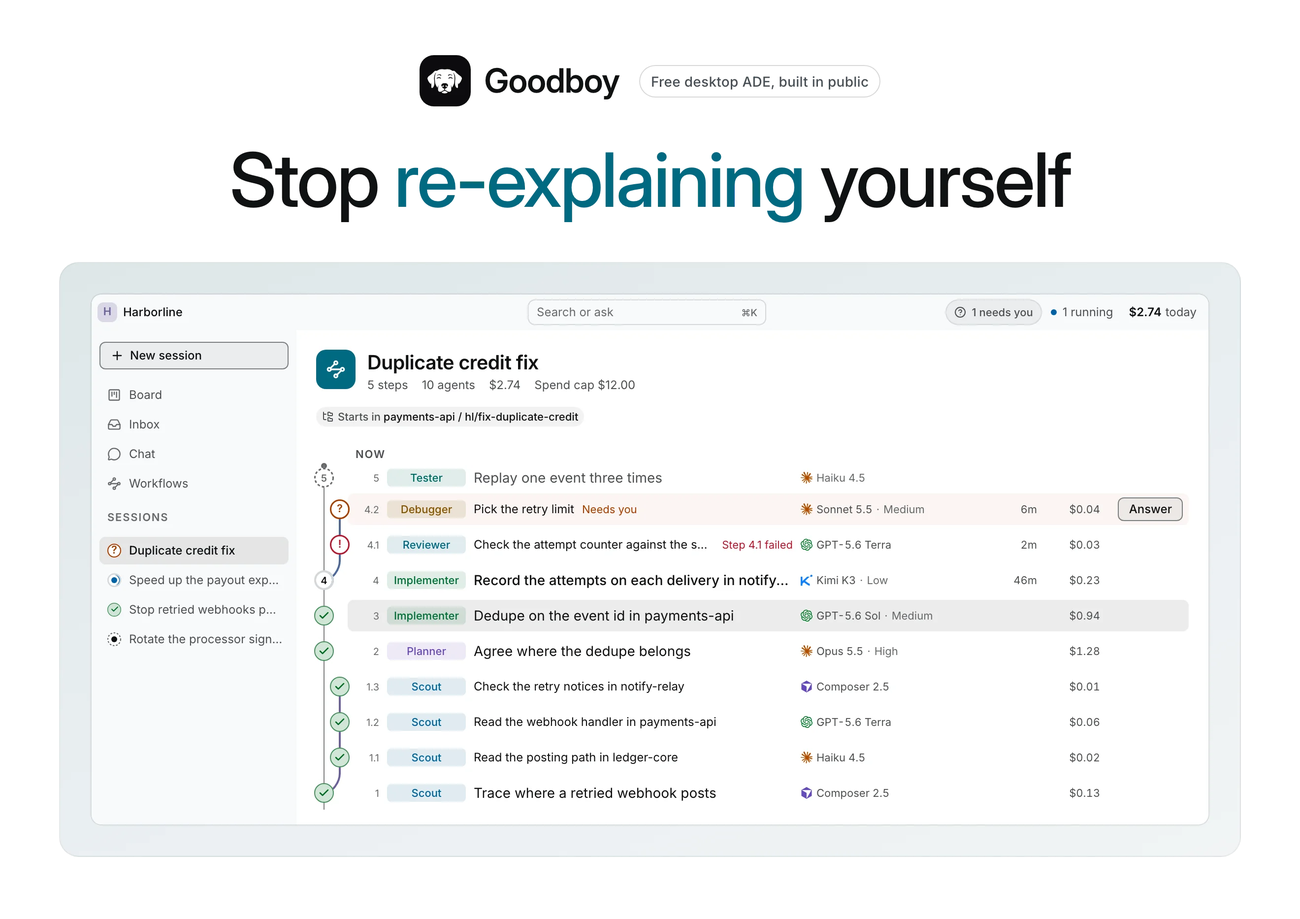
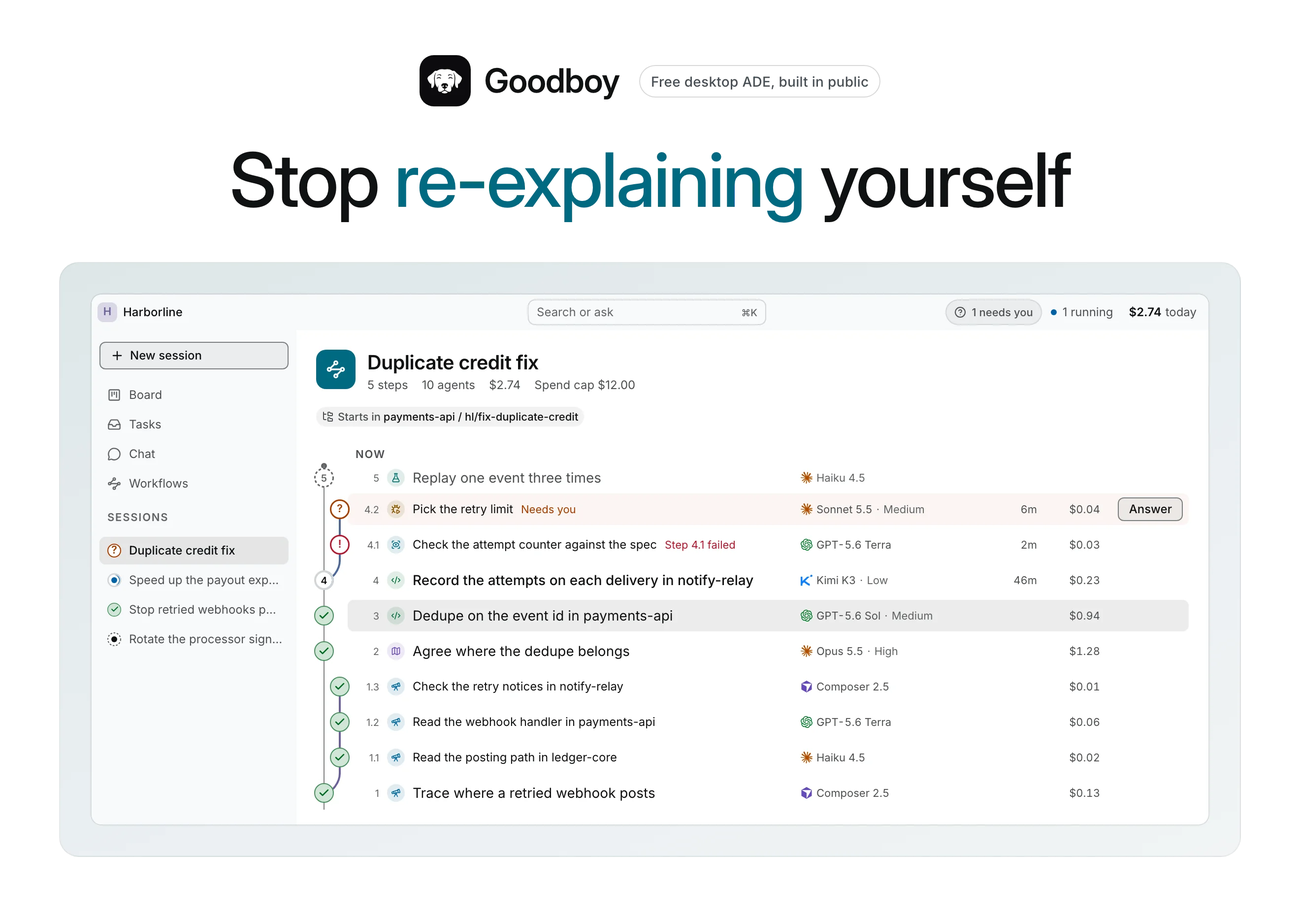
docs(repo): re-shoot the figures 0.23.0 made stale
Eighteen guide figures and the README hero are shot from the 0.23.0
scenes in both themes, with new alt text and the 0.23.0 caption. Two
dark figures of the Tasks page were the starting up screen before.

Changed region(s): [[0.3106, 0.4973, 0.5902, 0.8703], [0.0932, 0.4352, 0.1242, 0.4662]]

diff --git a/docs/features/review.md b/docs/features/review.md
@@ -6,10 +6,10 @@ One Branch page per branch holds the Pull request, Comments, Files, Commits and 
 
 <picture>
   <source media="(prefers-color-scheme: dark)" srcset="https://raw.githubusercontent.com/akhayam99/goodboy-media/main/features/review-resolve-dark.webp">
-  <img src="https://raw.githubusercontent.com/akhayam99/goodboy-media/main/features/review-resolve-light.webp" alt="The Comments tab of the Branch page for PR #318 in Harborline, with six open comments on the left and the one from kenji-w on retryPolicy.ts:42 on the right, marked Ready, with a Proposed change that caps the retries in retryPolicy.ts and metrics.ts">
+  <img src="https://raw.githubusercontent.com/akhayam99/goodboy-media/main/features/review-resolve-light.webp" alt="The Comments tab of the Branch page for hl/fix-duplicate-credit, between the tabs Pull request, Comments 9, Files, Commits and Checks, under a strip that reads Fixing 4 comments, 3 need you, 1 working. The list groups the comments as Needs you 4, Working 1, Ready to push 1, Open 1, Done and Left open on GitHub, and the question from omar-t on errorShape.ts:9 is open on the right with the question from the fix run, Answer and Skip">
 </picture>
 
-<sub>Screenshot from Goodboy 0.14.0</sub>
+<sub>Screenshot from Goodboy 0.23.0</sub>
 
 Turn review comments into commits without writing the fix yourself. The Comments tab lists the comments on the left and the one you picked on the right. Press **Fix** on a comment (or **F**), or check the comments you want (the box that shows on hover, **X** or **Cmd+A**) and press **Fix N** in the bar at the bottom of the list. A panel opens in the right column in place of the thread, so the page does not move: the comments it covers, with a check to drop any, the model it runs on with **Change**, and an optional note for the run. **Start fixing N** begins, Esc closes it, and the list keeps the comment you had open. **Fix** on a single comment opens the same panel for that one. One agent works through the comments in order, in its own copy of the branch, and a branch never has two agents fixing at once: comments you send while it works, a retry, **Fix anyway** or a message to another agent of the same branch wait in a lane and say **Queued, after the current fix**. Branches still run beside each other. Each fix is a commit stacked on the one before, so a later fix sees the earlier ones, and the agent drafts the reply. You accept, edit, reply yourself or skip each comment on its own. Accepting puts the fix on your branch together with the fixes before it, in order: the button on a fix with earlier ones reads **Accept 3 fixes**. Refusing or taking back a fix in the middle drops it and the lane rebuilds the ones after it on top, with one line saying so. While a run is going, one line under the tabs says what it is doing: **Fixing 2 of 5 · next: Module name…** (or **Waiting for your answer**), the tally of the run (**4 need you · 2 working · 2 ready to push**, each a filter for the list, with **1 push failed** or **1 couldn't fix** next to it when one happened), the model it runs on (**Sonnet 5.5 · Medium**), **Open transcript** and **Stop**. The list is grouped by delivery: **Needs you**, **Working**, **Ready to push**, **Open**, **Done** and **Left open on GitHub**, the last two closed. Every count of comments in the app reads one value: the group titles, the line under the tabs, the **Accept** and **Push** buttons, the push banner, the Branch page in the sidebar (**3 need you**) and the Overview. The actions of the comment sit in a bar at the bottom of the thread that stays in view while the thread scrolls: **Accept**, **Reply only** and **Skip** on a fix to review, **Answer** and **Skip** on a question, **Retry push** and **Skip** on a push that failed, **Undo** on a comment ready to push, **Undo skip** on one left open, **Open transcript** and **Stop** (it asks first) on one being worked on and **View on GitHub** on a done one. The **⋯** holds the rest: the agent transcript, **Resolve without a reply**, **Open on GitHub** and **Copy link**. Every fix run you start raises one **Fix run started** toast (**Fix queued after the current fix** when another fix holds the lane) that names the comments and the repository, with **Follow**, which opens the transcript of the run beside the Comments tab. The agent asks only when a comment reads two ways that lead to different code: the question shows in that comment's thread as **Question from the fix run**, with its options (the one it recommends is marked), a field for **Or tell it something else** and one **Continue the fix run**. The same question shows at the top of the fix run transcript, which opens in a drawer on the right of the Comments tab, so the list and the thread stay where they are. Answering a question, retrying a comment that could not be fixed and writing to the agent all go to that same agent, in the same copy. A retry keeps the model, commit style and hint the comment started with; pick another model and the comment starts over as a new fix run.
 
@@ -35,10 +35,10 @@ Read the comments of a pull request, apart from your own notes, in the Comments 
 
 <picture>
   <source media="(prefers-color-scheme: dark)" srcset="https://raw.githubusercontent.com/akhayam99/goodboy-media/main/features/review-comment-states-dark.webp">
-  <img src="https://raw.githubusercontent.com/akhayam99/goodboy-media/main/features/review-comment-states-light.webp" width="420" alt="The comment list of the Branch page for PR #318 under the summary 6 open, 1 drafting, 1 ready to push, 2 done, with a filter menu and the groups Open 6, Ready to push 1 and Done 2, each row marked Comment changed, Needs you, Drafting, Ready, Not started, Accepted, Skipped or Pushed">
+  <img src="https://raw.githubusercontent.com/akhayam99/goodboy-media/main/features/review-comment-states-light.webp" width="412" alt="The comment list of the Branch page with the groups Needs you 5 with Accept 2, Working 1, Ready to push 1 with Push 1 and Open 1, then Done 1 and Left open on GitHub 1 folded, each row marked Question, Push failed, To review, Working, Ready or Open">
 </picture>
 
-<sub>Screenshot from Goodboy 0.14.0</sub>
+<sub>Screenshot from Goodboy 0.23.0</sub>
 
 Know what each comment needs next, and what has been sent. A comment reads **Question** when the agent asked, **To review** when a fix or a reply waits for your Accept, **Push failed** (the only red here) when the push of an accepted comment did not go through, **Couldn't fix** (amber) when the fix run could not fix it, **Working** while an agent is on it, **Ready** once you decided and nothing has been sent, **Done** once it was sent (and closed on the host where the host can close it) and **Left open** when you skipped it. A comment not yet in a fix run reads **Open**. Question, Push failed, To review and Couldn't fix sit together under **Needs you**, in that order; **Ready** sits under **Ready to push**; a skipped comment sits under **Left open on GitHub** (the name of its host) and its thread stays open there. On Bitbucket, where a thread cannot be resolved, a sent comment reads **Done** with the sentence **Sent to Bitbucket**. A working comment shows how long it has been going and its last step; one to review shows the change, the reply and **Accept**, **Reply only** and **Skip**. A word's detail (**Fix ready, waiting for your review**) shows on hover. What git says, **Checks failed** and **Comment changed** are small notes next to the word. A comment is marked changed only when the reviewer really edited the original comment after the draft (a new reply shows as **New reply from** the author and never blocks Accept): the card shows the text before and after and who wrote it, and you choose **Redraft with the new comment** or **Keep the draft**. A comment whose line moved on GitHub says so, and stays as it is.
 
@@ -95,10 +95,10 @@ Review your own diff before anyone else does. The Files tab lists the changed fi
 
 <picture>
   <source media="(prefers-color-scheme: dark)" srcset="https://raw.githubusercontent.com/akhayam99/goodboy-media/main/features/review-pr-page-dark.webp">
-  <img src="https://raw.githubusercontent.com/akhayam99/goodboy-media/main/features/review-pr-page-light.webp" alt="Pull request #318, Stop retried webhooks posting a second credit, marked In review with a Squash and merge button, 9 comments to resolve, Changes on this branch +47 -12, Review Approved, Checks 3 of 3 passing and the typecheck, unit tests and lint checks">
+  <img src="https://raw.githubusercontent.com/akhayam99/goodboy-media/main/features/review-pr-page-light.webp" alt="The Pull request tab of the Branch page for hl/fix-duplicate-credit, between the tabs Pull request, Comments 0, Files 6, Commits 5 and Checks, with the description and its Edit button, the Activity list of pushes, reviews and checks, and a side panel with Status Open, Blocked: 1 check failing, Resolves, Reviewers, Checks, Branch with Rebase on main, and Files changed">
 </picture>
 
-<sub>Screenshot from Goodboy 0.13.1</sub>
+<sub>Screenshot from Goodboy 0.23.0</sub>
 
 Read and run a GitHub pull request on its own tab, **Pull request**, the first tab of the Branch page. The title is the page heading: click it or press **E** to rename the pull request in place (**Enter** saves to GitHub, **Esc** cancels). The description sits under it, rendered, with **Edit** beside its heading, a **Write** and **Preview** editor and **Save**, and an empty one reads **No description yet** with **Add description**. Under the description, **Activity** lists who opened it, the pushes by day, the reviews, **4 comments on files, 2 need you** (it opens Comments), the checks and your own edits. The column on the right reads **Status** in plain words (**Ready to merge**, **Blocked: 2 checks failing**, **Changes requested**, **Draft, not open for review yet**, **A run is live on this branch**, **Waiting on checks and review**), **Resolves**, **Reviewers** with **+** to ask someone, **Checks**, **Branch** (**3 behind main** with **Rebase on main**) and **Files changed**. A branch with no pull request reads **No pull request yet** with the create form, and a branch that has one lands on this tab. A Bitbucket pull request uses the same page and the same words, read and written through Bitbucket: rename it, edit the description, add a reviewer from the workspace members with **+**, and read the checks from its commit statuses. **Merge** offers **Squash and merge**, **Merge commit** and **Rebase and merge**, and Bitbucket checks that it can merge when you press it, so a green pull request is never held back by a guess. **Close** declines it, and the confirm says Bitbucket can't reopen a declined pull request. Bitbucket has no draft pull requests, so there is no draft control. A Bitbucket branch with no pull request reads **Create the pull request on Bitbucket, it appears here** with **Open Bitbucket**. If the API token is missing the pull request scope the tab says so and offers **Open Bitbucket settings**. Merge, mark ready, convert to draft and close from the Branch header. The header shows the title, the state, who wants to merge **head → base** and the checks, and its one primary is the next step, such as **Ready for review** on a draft, **Push N**, **Create PR** or **Merge**. When the primary is blocked, the header says why in its meta line, such as **1 check still running.** beside the disabled **Merge**. **Merge** is the filled primary only when the pull request is ready; while comments wait for you or a fix run is live it turns secondary and counts, **Merge · 3 open**, and never locks. **Merge** asks which way, **Squash and merge**, **Merge commit** or **Rebase and merge**, and shows a way the repository turned off disabled with its reason. **Close** confirms right under the header. The **Checks** tab reads one line, such as **2 failing · 1 running · 9 passed**, then lists the CI runs grouped as Failing, Running, Passed and Skipped, each opening its log on GitHub, and **Fix failing check** starts an agent on a failing one. While Goodboy reads, the line says **Reading checks**. A pull request nobody has reported on yet reads **No checks have reported on this pull request yet**, with **View on GitHub**. If the GitHub access Goodboy uses can't read checks, the tab says so and names the repository, then gives the fix for that access: **Give the token read access to checks and commit statuses** with **Open GitHub settings** for a token bound in Settings, or `gh auth refresh -s repo` to copy for the `gh` login, and **Check again**. Any other failure reads **Couldn't read checks** with **Retry** and **Details**. The reviewers and review requests still show when checks can't be read, and **Merge** stays blocked with the reason **Checks unknown**. Without a pull request the tab reads **Checks run once the pull request exists** with **Create pull request**.
 
@@ -120,10 +120,10 @@ Keep a pull request description in step with its branch. After a history push, a
 
 <picture>
   <source media="(prefers-color-scheme: dark)" srcset="https://raw.githubusercontent.com/akhayam99/goodboy-media/main/features/review-diff-dark.webp">
-  <img src="https://raw.githubusercontent.com/akhayam99/goodboy-media/main/features/review-diff-light.webp" alt="The changes of payments-api on hl/fix-duplicate-credit, branch vs main with 3 files +47 -12, 1 of 3 viewed, Unified and Split, and an open note under line 26 of applyWebhook.ts, 1 note">
+  <img src="https://raw.githubusercontent.com/akhayam99/goodboy-media/main/features/review-diff-light.webp" alt="The Files tab of the Branch page with a diff of ledgerClient.ts and postCredit.ts, the Notes 3 button in the toolbar, and the Your notes drawer open on the right: 3 open notes grouped by file, an open note with Fix, Close and Delete, a note To review with Accept, Skip and Close the note, and Fix 2 at the top">
 </picture>
 
-<sub>Screenshot from Goodboy 0.13.1</sub>
+<sub>Screenshot from Goodboy 0.23.0</sub>
 
 Read the branch against its base on the **Files** tab, with syntax colors, word-level highlights, a **Unified** or **Split** view (under **Display**; Split needs room for two columns of code, so a narrow window shows Unified and says **Split needs a wider window** until there is room) and a **Viewed** tick per file (**1 of 3 viewed** here), and quote a line into a note or a question for an agent. A note shows under its line with **Close note** and **Delete**; fixing it happens in the Notes drawer. A note stays on its branch: it never reaches a running agent by itself and never counts as the answer to one of its questions. To put lines in front of an agent now, write in the note box and choose **Ask agent** instead of **Add note**: the agent's conversation opens in a drawer on the right with the lines in its message box, with their file and line numbers, quoted, and your text under them; the diff stays where it was, and nothing is saved as a note. A note box opens right under the line you clicked, across both halves in Split, and Esc or saving puts you back on that line number. The tab has no Fix and no Push: the Branch header offers the next step for the branch, such as **Rebase on main**, **Push N** or **Create PR**. One line above the code says what you compare, such as **Comparing main ← hl/fix-duplicate-credit · All 3 commits**, and **Display** holds **Unified**, **Split** and **Wrap long lines**. A file tree in a rail on the left, outside the page column, lists the changed files by folder with their counts, a ring on each folder that fills as you mark its files **Viewed**, a check on the ones you viewed and a dot on the ones that changed since. A click jumps to the file in one continuous diff. Type in the filter above the tree to narrow the files, turn on **Unviewed** or **With notes**, or group the tree by kind. Generated files, such as lockfiles, wait in a closed **Generated** row at the bottom. **Comment on file** on a file header, or on its row in the tree, leaves a note on the whole file, with a pull request or without one. Keys: **J** and **K** (or **[** and **]**) move between files, **H** and **L** close and open the folder, **V** marks the file viewed and goes to the next one, **N** goes to the next unviewed file, **F** focuses the tree, **/** or **T** the filter, and **⌘⇧B** folds or opens the tree. The rail never moves the diff: on a wide window it stays open beside the page, on a medium one it rests as a thin strip with the progress ring, and on a narrow one it is a **Files 1/6** button before the comparison line; the strip and the button open the tree over the diff, and **Esc** or a click outside closes it. A big change keeps the tree light.
 

diff --git a/docs/features/overview.md b/docs/features/overview.md
@@ -6,10 +6,10 @@ Open a session and read everything about the task in one place: its goal, its pr
 
 <picture>
   <source media="(prefers-color-scheme: dark)" srcset="https://raw.githubusercontent.com/akhayam99/goodboy-media/main/features/overview-session-dark.webp">
-  <img src="https://raw.githubusercontent.com/akhayam99/goodboy-media/main/features/overview-session-light.webp" alt="The overview of the session Stop retried webhooks posting a second credit, with Context, Questions 1 and Artifacts 2, the linked pull request #57, HBL-412 and PAYMENTS-API-3F2, a cost of $3.47, and the projects payments-api (pull request #318 In review) and notify-relay (pull request #57 In review), above an Activity header with Filter, Open run and Start agent">
+  <img src="https://raw.githubusercontent.com/akhayam99/goodboy-media/main/features/overview-session-light.webp" alt="The overview of the session Stop retried webhooks posting a second credit, with Context, Artifacts 3, the linked pull request #57, HBL-412 and PAYMENTS-API-3F2, and Link work, then the projects payments-api (pull request #318, and #311 under Completed with Close branch) and notify-relay (pull request #57), each with New branch, above the Activity and Log tabs with the cost $3.47 and New">
 </picture>
 
-<sub>Screenshot from Goodboy 0.13.1</sub>
+<sub>Screenshot from Goodboy 0.23.0</sub>
 
 Find the goal, linked issues, projects, cost and the buttons to start an agent or a workflow on one screen. Under the title, one line names where the session came from, "From chat: Payments retry design" (the chat that started it; "Fed by chat" only when no chat started it), and the other chats sit behind "+2 more". One row of facts follows: **Context**, **Artifacts** (reports, wireframes and plans), the tasks linked to the session and **Link work**. A task that lives on one branch shows on that branch's row only, never in the header, and no chip carries a key hint: the key is in its tooltip. The cost is in the Activity header, beside its tabs. What waits on you is said once, in **Next**. Every section of the page, Projects, Next and Unassigned notes, opens with the same small heading.
 
@@ -25,10 +25,10 @@ See pull requests made outside Goodboy without reloading. One an agent opened or
 
 <picture>
   <source media="(prefers-color-scheme: dark)" srcset="https://raw.githubusercontent.com/akhayam99/goodboy-media/main/features/overview-activity-dark.webp">
-  <img src="https://raw.githubusercontent.com/akhayam99/goodboy-media/main/features/overview-activity-light.webp" alt="The Activity timeline of the session: a report titled Webhook redelivery no longer double credits, a queued step Cover the console retry states on Haiku 4.5 with a range of 11 to 14 minutes, the question Which failures should count toward a stuck delivery? with an Answer button, a folded row 10 resolves on PR #318 with 3 ready for you, 4 drafting, 2 pushed and 1 failed, Decisions 1 replaced, 1 withdrawn, and a folded row 6 subagents with 5 done and 1 running above the step Implement the stuck-delivery banner on Kimi K3">
+  <img src="https://raw.githubusercontent.com/akhayam99/goodboy-media/main/features/overview-activity-light.webp" alt="The Activity timeline of a session: the Activity and Log tabs with the cost $12.87 and New, a Needs you block with #318 and Surface retry state in notify-relay, each with Open, and below Now the steps, each row with a role icon, its title, the model with its effort and the time: Cover the console retry states on Haiku 4.5 Medium with a range of 11 to 14 minutes, Report the session outcome, a Fix run on #318 with 4 need you and 4 working, and Add the stuck-delivery banner on Kimi K3 marked Needs you">
 </picture>
 
-<sub>Screenshot from Goodboy 0.14.0</sub>
+<sub>Screenshot from Goodboy 0.23.0</sub>
 
 Read the session in two views, **Activity | Log**. Activity shows what you launched, one row per launch: an agent, a run, a fix run. Each agent row leads with its role as a small icon (Scout, Planner, Implementer and the rest) and a run row with an icon of its own, never a word. On the right each row shows its state or its one action, then the provider and the model that ran, then the duration with the cost under it, in the same columns on every row. When a step moved to another model, every model shows in the order it ran (**Kimi K3 → Sonnet 5.5**), and a run shows **Sonnet 5.5 + 1** on two models and **4 models** on more, never a clipped name. Rest the pointer on a role icon or on a model for a moment to open its card: the model and effort, start and finish, tokens and cost, and why a model took over. **I** on a focused row opens the card from the keyboard. When the timeline is narrow, like with the Context drawer open, the model shrinks to its icon, then the cost leaves, then the time, so the title stays readable. When something waits on you, a **Needs you** block sits on top with one row per owner, "#318 · 6 need you · 5 to review · 1 question", "Retry policy · 1 question", "Rebase of feat/export stopped ×2", each with **Open** to whoever owns the action; it disappears when nothing waits and never offers Push. An agent or run row it already lists has no **Answer** of its own. A fix run is one row, "Fix run · #318 · 9 comments", with its tally ("4 need you · 4 working"), the model, the real time span and the cost, and there is no row per agent. A click on it opens its transcript in a drawer on the Comments tab of the Branch. A comment that needs you or could not be fixed shows in the tally and in Needs you. A finished step with subagents has one muted, indented row, "6 subagents", on its lane right above it; open it and the children stand above the step, newest first, numbered 8.6 down to 8.1, each with its own time and cost, while the step's total counts them once. A step whose subagents are still working, queued or failed shows them all and cannot be folded; a subagent that asks you or failed also counts in Needs you. A finished agent that produced a plan, a report, a wireframe or a learning has "3 outputs" above it and lists them when you open it. The whole feed reads up like a git graph: newest first at every level, children above their parent, the steps of a run above the run row, and the clock never rises going down. The lanes, one colour per run and dashed up to Now while the run is live, pass beside whatever started in between, and a click on a lane opens the run page. Every row you can click, a run row included, takes a soft wash under the pointer and a ring on keyboard focus, and the pointer turns to a hand; a row that waits on you or has news keeps its tint under the wash. Every finished run or chain of agents folds the same way, whatever its size: its own row, and above it the row "8 steps · 1 question answered · Context · 2 added, 2 replaced", where the Context part says in the same words as the Context rows inside what its steps changed in the session context and shows only when they changed something. It opens on a click or the Right arrow, and a click on the run row itself opens the run page. A run that still asks you something, failed or is running stays open and cannot be folded, one that finishes while you look stays open until you fold it or open the page again, and the run page always lists every step in the order they ran. A fix run row says the state of its comments in the delivery words, **need you**, **working** and **ready to push**, and a fix waiting on you shows in Needs you. The state sits at the same place on every row, right before the time, and grows with its words up to 256px, so "3 need you · 4 working · 1 ready to push" shows whole when the row has room and the title gives way first; a finished state like Pushed or Resolved is an icon that says its word on hover. Children hang one indent in from their launch on the launch's own lane, a 2px line in the run's colour. The Log holds the facts: Context ("Context · 1 added, 2 replaced"), a plan, report, wireframe or learning made without a launch, branch and worktree events, links (an unlink carries **Re-link**), pull request events, answered questions without a launch and session archive and restore. It is flat, newest first, one compact muted row per fact, with a search box on top and no categories. A history row that still has a recovery stays in Activity and opens the Commits tab, where Undo rewrite, Retry and Restore previous history live. Consecutive stops of the same rebase on one day merge into one row, "Rebase of feat/export stopped ×2", which acts on the newest stop. Hover a clock to see when that row started and finished. A queued step sits on the dashed stretch above the newest row, under Now, with no clock.
 

diff --git a/docs/features/workspace.md b/docs/features/workspace.md
@@ -10,10 +10,10 @@ Begin with an empty folder and no repository. **Start a new project** on the emp
 
 <picture>
   <source media="(prefers-color-scheme: dark)" srcset="https://raw.githubusercontent.com/akhayam99/goodboy-media/main/features/workspace-several-projects-dark.webp">
-  <img src="https://raw.githubusercontent.com/akhayam99/goodboy-media/main/features/workspace-several-projects-light.webp" alt="The Northwind workspace with one session open: its Projects section lists api on the branch feat/create-orders-endpoint and storefront-web on feat/checkout-orders-api, each with New worktree and its changes, above the activity timeline">
+  <img src="https://raw.githubusercontent.com/akhayam99/goodboy-media/main/features/workspace-several-projects-light.webp" alt="The Northwind workspace with one session open: its Projects section lists api on the branch feat/create-orders-endpoint and storefront-web on feat/checkout-orders-api, each with New branch and its changes, above the activity timeline">
 </picture>
 
-<sub>Screenshot from Goodboy 0.13.1</sub>
+<sub>Screenshot from Goodboy 0.23.0</sub>
 
 Keep your repos together as one workspace, and let one session work across several of them. The **Projects** section of the session lists each repo it touches, with its branch, the size of its changes and **New branch**. A project gets a branch only when an agent needs to edit it.
 
@@ -21,10 +21,10 @@ Keep your repos together as one workspace, and let one session work across sever
 
 <picture>
   <source media="(prefers-color-scheme: dark)" srcset="https://raw.githubusercontent.com/akhayam99/goodboy-media/main/features/workspace-starred-dark.webp">
-  <img src="https://raw.githubusercontent.com/akhayam99/goodboy-media/main/features/workspace-starred-light.webp" alt="The Harborline workspace settings, Projects 4: Starred ledger-core and payments-api with a one-line description each and the base branch main, then All projects with notify-relay and runbooks, and a note that starred projects come first for agents">
+  <img src="https://raw.githubusercontent.com/akhayam99/goodboy-media/main/features/workspace-starred-light.webp" alt="The Harborline workspace settings, Projects: Starred 2 with ledger-core and payments-api and the base branch main, then Other projects 2 with notify-relay and runbooks, a note that starred projects come first for agents, and the Dev project section with Convert">
 </picture>
 
-<sub>Screenshot from Goodboy 0.13.1</sub>
+<sub>Screenshot from Goodboy 0.23.0</sub>
 
 Point agents at the right repo without naming it. Star a project and give it a one-line description: both go into each agent's brief, and starred projects come first in the project pickers. In the project list they sit under **Starred**, and the rest under **Other projects**. Each repo shows its base branch, **main** here, read from origin.
 
@@ -32,10 +32,10 @@ Point agents at the right repo without naming it. Star a project and give it a o
 
 <picture>
   <source media="(prefers-color-scheme: dark)" srcset="https://raw.githubusercontent.com/akhayam99/goodboy-media/main/features/workspace-worktrees-dark.webp">
-  <img src="https://raw.githubusercontent.com/akhayam99/goodboy-media/main/features/workspace-worktrees-light.webp" alt="The Projects of one session: ledger-core with three worktrees (idempotent-postings, part 3 of 6, pull request 418 in review; statement-backfill, part 5 of 6, Files kept with Reopen; rounding-drift, part 1 of 6, pull request 412 merged with Remove worktree) and notify-relay with pull request 96 in review">
+  <img src="https://raw.githubusercontent.com/akhayam99/goodboy-media/main/features/workspace-worktrees-light.webp" alt="The Projects of one session: ledger-core with three branches (idempotent-postings, pull request 418; statement-backfill with Files kept and Reopen; rounding-drift under Completed, pull request 412 merged, with Close branch) and notify-relay with pull request 96, each project with New branch">
 </picture>
 
-<sub>Screenshot from Goodboy 0.13.1</sub>
+<sub>Screenshot from Goodboy 0.23.0</sub>
 
 Let agents edit in parallel without touching your checkout. Each branch gets its own worktree, a separate folder next to your checkout with its own changes and pull request, and every row shows its part, its lines changed and its pull request. **New branch** adds one, **Close branch** clears a merged one, and **Reopen** brings back one whose files were kept. **Copy worktree path** in **⌘K** copies where a session works, or lets you pick one when it has several, with **⌘Enter** to copy them all.
 
@@ -43,10 +43,10 @@ Let agents edit in parallel without touching your checkout. Each branch gets its
 
 <picture>
   <source media="(prefers-color-scheme: dark)" srcset="https://raw.githubusercontent.com/akhayam99/goodboy-media/main/features/workspace-branches-dark.webp">
-  <img src="https://raw.githubusercontent.com/akhayam99/goodboy-media/main/features/workspace-branches-light.webp" alt="The Projects of one session where two worktrees are on another branch than the one recorded: ledger-core has two branches and offers Check again, and notify-relay offers Keep both branches and Use this branch here">
+  <img src="https://raw.githubusercontent.com/akhayam99/goodboy-media/main/features/workspace-branches-light.webp" alt="The Projects of one session where two branches are not the ones recorded: ledger-core is not on the branch it was left on and offers Check again and Not now, and notify-relay offers Use this branch here, Keep both branches and Not now">
 </picture>
 
-<sub>Screenshot from Goodboy 0.13.1</sub>
+<sub>Screenshot from Goodboy 0.23.0</sub>
 
 Work on several branches of one repo in the same session: ledger-core shows two, each in its own worktree. If a worktree drifts to another branch, a card says the project is not on the branch it was left on and offers **Use this branch here** or **Keep both branches**, which opens the original branch again in a worktree of its own. When git already has that branch checked out in another worktree, the card offers **Check again** instead.
 

diff --git a/docs/features/inbox.md b/docs/features/inbox.md
@@ -22,10 +22,10 @@ Let agents on any provider read and act on GitHub, GitLab, Bitbucket, Jira, Line
 
 <picture>
   <source media="(prefers-color-scheme: dark)" srcset="https://raw.githubusercontent.com/akhayam99/goodboy-media/main/features/inbox-list-dark.webp">
-  <img src="https://raw.githubusercontent.com/akhayam99/goodboy-media/main/features/inbox-list-light.webp" alt="The Inbox listing 10 items from Linear, GitHub, Jira, Sentry and Slack in Today, Yesterday and Older groups, with the View, Type, Source and Project filters and the key hints on the left, and Linear issue CAS-231 open on the right with Launch session and Link to a session">
+  <img src="https://raw.githubusercontent.com/akhayam99/goodboy-media/main/features/inbox-list-light.webp" alt="The Tasks page listing 10 items from Linear, GitHub, Jira, Sentry and Slack in Today, Yesterday and This week groups, with the search box and the Filters button, and Linear issue CAS-231 open on the right with Start from CAS-231 and Link to a session">
 </picture>
 
-<sub>Screenshot from Goodboy 0.13.1</sub>
+<sub>Screenshot from Goodboy 0.23.0</sub>
 
 Work from one list instead of seven tabs. Issues, Slack threads and Sentry errors from your connected tools sit together, grouped by day, next to pull requests from GitHub (review requests and your own recent ones) and merge requests from GitLab and Bitbucket. Narrow the list by **View**, **Type**, **Source** and **Project**, and move with **j** and **k**. Sentry errors filter by the project they belong to, and GitHub or GitLab items too when several projects live on that host. Linear and Jira stay one flat list. A row shows its status word only when the list mixes states, so a list of open items does not repeat Open on every row.
 
@@ -33,10 +33,10 @@ Work from one list instead of seven tabs. Issues, Slack threads and Sentry error
 
 <picture>
   <source media="(prefers-color-scheme: dark)" srcset="https://raw.githubusercontent.com/akhayam99/goodboy-media/main/features/inbox-lookup-dark.webp">
-  <img src="https://raw.githubusercontent.com/akhayam99/goodboy-media/main/features/inbox-lookup-light.webp" alt="The Inbox search box holding HBL-412, with the Linear issue Retried webhooks post a second credit listed under Not in your inbox, Assigned to Dana R., and its details open on the right">
+  <img src="https://raw.githubusercontent.com/akhayam99/goodboy-media/main/features/inbox-lookup-light.webp" alt="The Tasks search box holding HBL-412, with the Linear issue Retried webhooks post a second credit listed under Not in Tasks, Assigned to Dana R., above the Starred and Today groups, and its details open on the right with Start from HBL-412">
 </picture>
 
-<sub>Screenshot from Goodboy 0.13.1</sub>
+<sub>Screenshot from Goodboy 0.23.0</sub>
 
 Paste `HBL-412`, `#318` or a link in the search box and open the issue, even when it is not assigned to you. It appears under **Not in Tasks** with its full details beside it. An unknown prefix is tried on Linear and Jira at once.
 
@@ -56,10 +56,10 @@ Attach a Tasks item to work that already exists. **Link to a session** sits next
 
 <picture>
   <source media="(prefers-color-scheme: dark)" srcset="https://raw.githubusercontent.com/akhayam99/goodboy-media/main/features/inbox-sentry-dark.webp">
-  <img src="https://raw.githubusercontent.com/akhayam99/goodboy-media/main/features/inbox-sentry-light.webp" alt="The Inbox filtered to Sentry, 4 errors from payments-api and notify-relay, with DuplicateChargeError: charge already captured for order open on the right, showing status Unresolved, culprit settle_batch, 42 events, 9 users and a 2 frame stack trace">
+  <img src="https://raw.githubusercontent.com/akhayam99/goodboy-media/main/features/inbox-sentry-light.webp" alt="Tasks filtered to Sentry, 4 errors from payments-api and notify-relay in Today and Yesterday groups, with DuplicateChargeError: charge already captured for order open on the right, showing status Unresolved, culprit settle_batch, 42 events, 9 users, Start from PAYMENTS-API-7K1 and a 2 frame stack trace">
 </picture>
 
-<sub>Screenshot from Goodboy 0.13.1</sub>
+<sub>Screenshot from Goodboy 0.23.0</sub>
 
 Read Sentry errors with stack trace, breadcrumbs and tags inside Goodboy, and filter them by project. Comment, assign, edit and move issues in Linear and Jira the same way.
 

diff --git a/docs/features/workflows.md b/docs/features/workflows.md
@@ -45,10 +45,10 @@ Start from **Refactor**, **Plan and ship** or **Fix a bug**. A built-in you dele
 
 <picture>
   <source media="(prefers-color-scheme: dark)" srcset="https://raw.githubusercontent.com/akhayam99/goodboy-media/main/features/workflow-studio-steps-dark.webp">
-  <img src="https://raw.githubusercontent.com/akhayam99/goodboy-media/main/features/workflow-studio-steps-light.webp" alt="The Workflows studio on the Saved steps tab: the 8 built-in steps Scout, Investigate, Plan, Implement, Test, Review, Resolve comments and Update docs, and an empty This workspace list with a New step button">
+  <img src="https://raw.githubusercontent.com/akhayam99/goodboy-media/main/features/workflow-studio-steps-light.webp" alt="The Workflows studio on the Saved steps tab: the 7 built-in steps Scout, Investigate, Plan, Implement, Test, Review and Update docs, each with its role, a short description and the model setting Auto, and an empty This workspace list with a New step button">
 </picture>
 
-<sub>Screenshot from Goodboy 0.13.1</sub>
+<sub>Screenshot from Goodboy 0.23.0</sub>
 
 Reuse steps across workflows. The 7 built-in steps are read-only, and **Save a copy** makes your own.
 
@@ -101,10 +101,10 @@ Line work up behind work. **Starts** takes **Now**, **Manually** to keep the run
 
 <picture>
   <source media="(prefers-color-scheme: dark)" srcset="https://raw.githubusercontent.com/akhayam99/goodboy-media/main/features/workflow-run-dark.webp">
-  <img src="https://raw.githubusercontent.com/akhayam99/goodboy-media/main/features/workflow-run-light.webp" alt="The Duplicate credit fix run on HBL-412: three scouts working in parallel under step 1, then a planner, two implementers and a tester, each on its own model, with Waiting on step 1 above the tree and $0.13 spent of the $12.00 spend limit">
+  <img src="https://raw.githubusercontent.com/akhayam99/goodboy-media/main/features/workflow-run-light.webp" alt="The Duplicate credit fix run: an orchestrator bar reading Waiting on step 4 with Stop step and GPT-5.6 Sol High, two queued hints, and five steps, each row with its role icon, title, model with effort, and time and cost, with step 1 folding 3 scouts done for $0.09 and $2.74 spent of the $12.00 spend limit">
 </picture>
 
-<sub>Screenshot from Goodboy 0.13.1</sub>
+<sub>Screenshot from Goodboy 0.23.0</sub>
 
 Follow a run from top to bottom: the header with the status and **Pause** and **Stop run** as one pair, the steps in their own scroller with a line under the header once they scroll, and the composer at the bottom. Sub-agents sit indented under their agent, and a finished set folds into one row. While the run waits for its plan, **Review plan** opens it in a drawer. Add steps to a live or finished run. Parallel scouts appear as branches under their step. After a restart, one **Resume all** above the steps starts every stopped agent in that run. Deleting a run deletes its agents and their open questions with it.
 

diff --git a/docs/features/start.md b/docs/features/start.md
@@ -10,10 +10,10 @@ The **New session** draft has three tabs: **Pick up a task**, **Run a workflow**
 
 <picture>
   <source media="(prefers-color-scheme: dark)" srcset="https://raw.githubusercontent.com/akhayam99/goodboy-media/main/features/start-pick-task-dark.webp">
-  <img src="https://raw.githubusercontent.com/akhayam99/goodboy-media/main/features/start-pick-task-light.webp" alt="New session with the Pick up a task tab selected, a Starred list of issues with HBL-412 Retried webhooks post a second credit highlighted, and below it Brief from HBL-412 titled Stop retried webhooks posting a second credit, with Done when criteria and the buttons Dismiss, Use issue text, Edit and Use brief">
+  <img src="https://raw.githubusercontent.com/akhayam99/goodboy-media/main/features/start-pick-task-light.webp" alt="The New session page on Pick a task: the task HBL-412 Retried webhooks post a second credit with Dismiss, then one block titled Brief from HBL-412 with its title ready to edit, and under it the tabs Run a workflow and Ask an agent with the Orchestrated workflow and its brief in a Write and Preview editor">
 </picture>
 
-<sub>Screenshot from Goodboy 0.13.1</sub>
+<sub>Screenshot from Goodboy 0.23.0</sub>
 
 Turn an issue into a briefed session in one pick. Pick HBL-412 and the draft shows one block: **Brief from HBL-412** with the title Goodboy drafted, ready to edit, then **How to work on it**: the project it works in, **Run a workflow** or **Ask an agent**, and the goal under it. The goal starts as the issue text and becomes the drafted brief with its **Done when** criteria as soon as it is written, unless you already edited it. **Use the issue text** puts the plain issue back and **Use brief** brings the draft back. **Dismiss** returns to the list. A Sentry error or a GitHub issue opens in the project it belongs to, and one **Start from HBL-412** links the issue, creates the session and starts the work, with a **Follow** toast.
 

diff --git a/docs/features/switching.md b/docs/features/switching.md
@@ -6,10 +6,10 @@ Move between the tasks of a workspace, and see from any screen which one needs y
 
 <picture>
   <source media="(prefers-color-scheme: dark)" srcset="https://raw.githubusercontent.com/akhayam99/goodboy-media/main/features/switch-rail-dark.webp">
-  <img src="https://raw.githubusercontent.com/akhayam99/goodboy-media/main/features/switch-rail-light.webp" alt="The left column of the Northwind workspace: New session, the doors Board, Inbox, Chat and Workflows, and the Sessions list of one-line rows with a state sign and a title. The open session Fix webhook retries shows its pages Overview, Branch, Runs, Agents and Artifacts, and a card beside its row reads Running, pull request 318, HBL-212, payments-api, notify-relay and 2 agents">
+  <img src="https://raw.githubusercontent.com/akhayam99/goodboy-media/main/features/switch-rail-light.webp" width="670" alt="The left column of the Northwind workspace: New session, the doors Board, Tasks, Chat and Workflows, and the Sessions list of one-line rows with a state sign and a title. The open session Fix webhook retries shows its pages Overview, Branch with 2 branches, Runs, Agents with 1 running and Artifacts, and a card beside its row reads Running, pull request 318 Draft with checks passing, HBL-212, payments-api, notify-relay and 2 agents">
 </picture>
 
-<sub>Screenshot from Goodboy 0.21.1</sub>
+<sub>Screenshot from Goodboy 0.23.0</sub>
 
 Move between tasks without losing your place. The list in the left column holds the sessions of the workspace, one line each: a small sign and the title. A turning ring means an agent is working, an amber **?**, shield or **!** means you must answer, approve or act, a green check means the pull request is ready to merge, a red **!** means something broke, a filled violet check means it is done, and a plain ring means it is quiet. The sessions that need you sit on top, and the rest follow the one you opened last.
 

diff --git a/docs/features/providers.md b/docs/features/providers.md
@@ -6,10 +6,10 @@ Watch how much of each plan is left, keep work moving when a provider runs out, 
 
 <picture>
   <source media="(prefers-color-scheme: dark)" srcset="https://raw.githubusercontent.com/akhayam99/goodboy-media/main/features/providers-limits-chip-dark.webp">
-  <img src="https://raw.githubusercontent.com/akhayam99/goodboy-media/main/features/providers-limits-chip-light.webp" width="530" alt="The top bar with the Claude limits chip hovered: a card reading Claude max, Claude is about to run out, Weekly 84% used with its reset time, and Updated 1m ago. Before the chip are 1 needs you, 2 running and $9.62 today, after it the theme, Impact and notifications icons">
+  <img src="https://raw.githubusercontent.com/akhayam99/goodboy-media/main/features/providers-limits-chip-light.webp" width="452" alt="The top bar with the Claude limits chip hovered: a card reading Claude max, Claude is about to run out, Weekly 84% used with its reset time, and Updated 1m ago. Before the chip are 1 needs you and 1 running, after it $9.65 today and the notifications bell">
 </picture>
 
-<sub>Screenshot from Goodboy 0.21.0</sub>
+<sub>Screenshot from Goodboy 0.23.0</sub>
 
 See how much of your Claude and Codex plans is left before a run stops. Each provider gets a chip in the top bar that draws the 5-hour window and the week as two bars: amber from 80%, red and full at 100%, faded when the figures are old. Hover a chip, as in the picture, to read the plan, how much of each window is used and when it comes back, and click it to open the providers menu right under it. When more providers report than fit the bar, the last chip names them (`+2 providers`) and takes the tone of the worst one. Checking Claude spends no model tokens: Goodboy runs Claude's own `/usage` in an empty folder.
 

diff --git a/README.md b/README.md
@@ -2,10 +2,10 @@
 
 <picture>
   <source media="(prefers-color-scheme: dark)" srcset="./docs/readme/readme-hero-dark.webp">
-  <img src="./docs/readme/readme-hero-light.webp" alt="Goodboy, a free desktop ADE built in public. Stop re-explaining yourself: the Duplicate credit fix task in Harborline, its steps run by scouts, a planner, implementers, a reviewer, a debugger waiting on your answer and a tester, each on its own model" width="880">
+  <img src="./docs/readme/readme-hero-light.webp" alt="Goodboy, a free desktop ADE built in public. Stop re-explaining yourself: the Duplicate credit fix run in Harborline, its steps run by scouts, a planner, implementers, a reviewer and a tester, each row with its role icon, model and effort, time and cost, and a debugger step waiting on your answer" width="880">
 </picture>
 
-<sub>Screenshot from Goodboy 0.21.0</sub>
+<sub>Screenshot from Goodboy 0.23.0</sub>
 
 [![ci](https://img.shields.io/github/actions/workflow/status/akhayam99/goodboy/ci.yml?branch=main&style=for-the-badge&logo=githubactions&logoColor=white&label=ci&labelColor=15181b)](https://github.com/akhayam99/goodboy/actions/workflows/ci.yml)
 [![release](https://img.shields.io/github/v/release/akhayam99/goodboy?style=for-the-badge&logo=github&logoColor=white&label=release&labelColor=15181b&color=0e9aa4)](https://github.com/akhayam99/goodboy/releases/latest)
